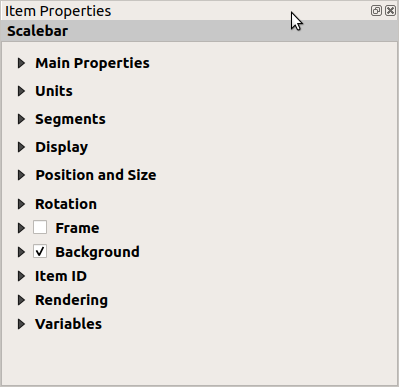
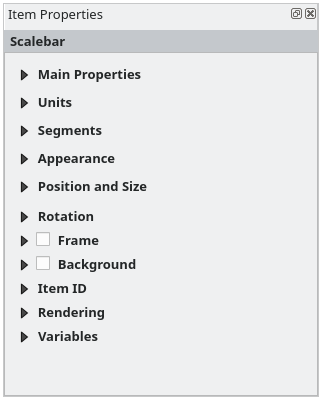
Update layout scale bar appearance and unit properties
Fixes #9167, fixes #9225, fixes #9304

Changed region(s): [[0.0, 0.0, 1.0, 1.0]]

diff --git a/docs/user_manual/print_composer/composer_items/composer_scale_bar.rst b/docs/user_manual/print_composer/composer_items/composer_scale_bar.rst
@@ -86,6 +86,11 @@ provides the functionalities to set the units of display and some text formattin
   QGIS locale, or when you would like to vary the style from the locale
   defaults (e.g. adding thousands separators when the locale default is to hide
   them).
+* Select the :guilabel:`Method` for scale bar calculation: Depending on the map CRS and extent,
+  the distance reported in the scale bar may not be the same measured over the map.
+  This option lets you specify the method you would like to use:
+  :guilabel:`Average Top, Middle and Bottom Scales`, :guilabel:`Calculate along Top of Map`,
+  :guilabel:`Calculate along Middle of Map` or :guilabel:`Calculate along Bottom of Map`.
 
 Segments
 --------
@@ -119,27 +124,26 @@ subdivisions (see :numref:`figure_layout_scalebar_segments`):
 * :guilabel:`Subdivision height` is used to define the height of the subdivision
   segment.
 
-Display
---------
+Appearance
+----------
 
-The :guilabel:`Display` group of the scale bar :guilabel:`Item Properties`
+The :guilabel:`Appearance` group of the scale bar :guilabel:`Item Properties`
 panel provides the following functionalities:
 
-.. _figure_layout_scalebar_display:
+.. _figure_layout_scalebar_appearance:
 
-.. figure:: img/scalebar_display.png
+.. figure:: img/scalebar_appearance.png
    :align: center
 
-   Scale Bar Display group
+   Scale Bar Appearance group
 
 You can define how the scale bar will be displayed in its frame.
 
 * :guilabel:`Box margin` : space between text and frame borders
 * :guilabel:`Label margin` : space between text and scale bar drawing
-* :guilabel:`Vertical label placement`: it can be above or below the scale bar
-  segment
-* :guilabel:`Horizontal label placement`: which would be centered at the scale
-  bar segment's edge or center
+* :guilabel:`Distance label placement` defines the position of the text relative to the scale bar segments:
+  :guilabel:`Above Segment Edges`, :guilabel:`Above Segment Centers`,
+  :guilabel:`Below Segment Edges` or :guilabel:`Below Segment Centers`
 * :guilabel:`Primary fill` and :guilabel:`Secondary fill` of the scale bar
   drawing using :ref:`fill symbols properties <vector_fill_symbols>`
   (color, opacity, patterns, effects...) --- for *Single Box*, *Double Box*
